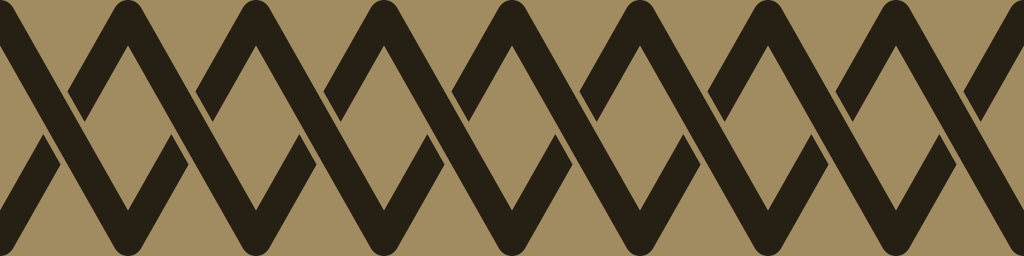
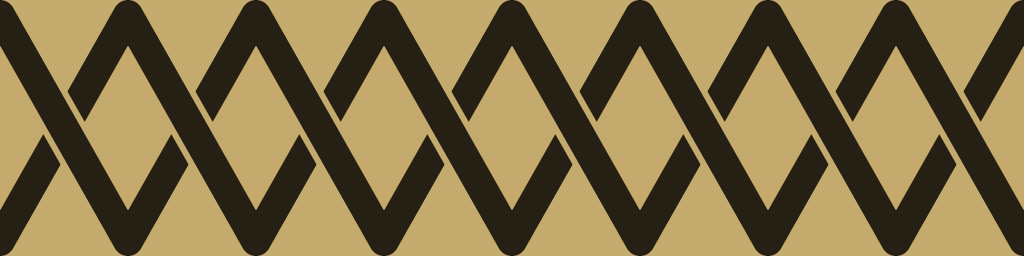
Brighten globe ornament gold [skip ci]

diff --git a/tools/globe/ornament.py b/tools/globe/ornament.py
@@ -10,12 +10,15 @@ Nizami, M.85.237.16. The palette and revised proportions below follow supplied s
 measurements; the lighter scroll, cusps, rulings and headpiece composition retain the
 round 3 manuscript study. No fonts, lettering or source-image pixels are used.
 
-The only paint colours are these sRGB scan samples, white-balanced so the manuscript's
-lead white reads neutral: LAPIS 5F6CA7, GOLD A08C60 (all ornament and ruling gold),
-CARTOUCHE 9D8A57 (cartouche and pendant grounds), SALMON C47C66, PINK D1A38F (pink paint
+The paint palette follows sRGB scan samples, white-balanced so the manuscript's
+lead white reads neutral: LAPIS 5F6CA7, GOLD C5AA6E (all ornament and ruling gold),
+CARTOUCHE C2A862 (cartouche and pendant grounds), SALMON C47C66, PINK D1A38F (pink paint
 and outlines), BLACK 251F14, WHITE F5F5F5, LIGHT_BLUE A2B7D0, GREEN 79A18B, INK 6D6793
 (margin ink), PAPER F2E4C8. Blossoms use only WHITE, PINK, SALMON and LIGHT_BLUE, with
-GOLD hearts. Antialiasing and resampling blend these paints; no colour noise is added.
+GOLD hearts. Both golds are brightened to read as paint under light: A08C60 -> C5AA6E
+and 9D8A57 -> C2A862 preserve hue, lift OKLab L by +0.10 and multiply chroma by 1.3.
+Cartouche and pendant grounds retain deterministic +/-3% speckle in 3 px grains.
+Antialiasing and resampling blend these paints.
 
   band.png     1152 x 256, opaque RGBA, seamless in x; y runs from inner to outer edge.
                The salmon cell is centred on x = 0, nominal width 307 px (1.2 H), split
@@ -49,8 +52,8 @@ GOLD hearts. Antialiasing and resampling blend these paints; no colour noise is 
   headpiece.png 2048 x 256, opaque RGBA. The round 3 lapis field and WHITE/GOLD rulings,
                mirrored lighter scrolls and rounded-leaf black corner spandrels remain.
                The centred cusped cartouche is 52% W x 72% H; outward-facing lobed
-               pendants are 12% W x 46% H. All three are flat CARTOUCHE, with a 4 px
-               PINK outline and a 2 px WHITE line outside. Pendants carry PINK blossoms
+               pendants are 12% W x 46% H. All three use CARTOUCHE with +/-3% speckle,
+               a 4 px PINK outline and a 2 px WHITE line outside. Pendants carry PINK blossoms
                and short GOLD stems join them to the cartouche. Scrolls stay at least
                12 px from the cartouche. The plain interior's text box, fractions
                (x0, y0, x1, y1) = (0.31, 0.31, 0.69, 0.69), stays 12 px inside the fill.
@@ -82,8 +85,8 @@ ROOT = Path(__file__).resolve().parents[2]
 OUT = ROOT / 'Globe'
 SCALE = 4
 LAPIS = '#5F6CA7'
-GOLD = '#A08C60'
-CARTOUCHE = '#9D8A57'
+GOLD = '#C5AA6E'
+CARTOUCHE = '#C2A862'
 SALMON = '#C47C66'
 PINK = '#D1A38F'
 BLACK = '#251F14'
@@ -497,13 +500,20 @@ def polygon_mask(size, points):
     return np.asarray(mask) > 0
 
 
-def gilded_shape(drawing, points):
-    """Flat CARTOUCHE paint, with a 4 px PINK outline inside a 2 px WHITE line."""
+def gilded_shape(drawing, points, seed):
+    """CARTOUCHE with 3 px grain at most +/-3%; 4 px PINK inside 2 px WHITE."""
     mask = polygon_mask(drawing.image.size, points)
     distance = ndimage.distance_transform_edt(mask) / SCALE
-    for limit, colour in ((0, WHITE), (2, PINK), (6, CARTOUCHE)):
+    for limit, colour in ((0, WHITE), (2, PINK)):
         drawing.image.paste((*rgb(colour), 255),
                             mask=Image.fromarray((distance > limit).astype('uint8') * 255))
+    rng = np.random.default_rng(seed)
+    height, width = mask.shape
+    grain = rng.uniform(-0.03, 0.03, ((height + 11) // 12, (width + 11) // 12, 1))
+    grain = np.repeat(np.repeat(grain, 12, axis=0), 12, axis=1)[:height, :width]
+    gold = np.rint(np.asarray(rgb(CARTOUCHE)) * (1 + grain)).astype('uint8')
+    drawing.image.paste(Image.fromarray(gold),
+                        mask=Image.fromarray((distance > 6).astype('uint8') * 255))
     return distance
 
 
@@ -539,7 +549,7 @@ def headpiece():
         drawing.stroke([(inner_x, height / 2), (edge_x, height / 2)], 8, GOLD)
         pendant = pendant_shape((centre_x, height / 2), width * 0.12, height * 0.46, side)
         reserved |= polygon_mask(drawing.image.size, pendant)
-        gilded_shape(drawing, pendant)
+        gilded_shape(drawing, pendant, 8)
         blossom(drawing, (centre_x, height / 2), PINK)
     for flip_x in (False, True):
         for flip_y in (False, True):
@@ -560,7 +570,7 @@ def headpiece():
             bud(drawing, reflect([(89, 12)])[0], np.pi if flip_x else 0, PINK)
     # Coverage refers only to exposed blue ground; reserve the cartouche, pendants and
     # black corners. Report totals both with and without the inner gold field ruling.
-    cartouche_distance = gilded_shape(drawing, cartouche)
+    cartouche_distance = gilded_shape(drawing, cartouche, 23)
     row, column = np.ogrid[:height * SCALE, :width * SCALE]
     edge = np.minimum(np.minimum((row + 0.5) / SCALE, height - (row + 0.5) / SCALE),
                       np.minimum((column + 0.5) / SCALE, width - (column + 0.5) / SCALE))
